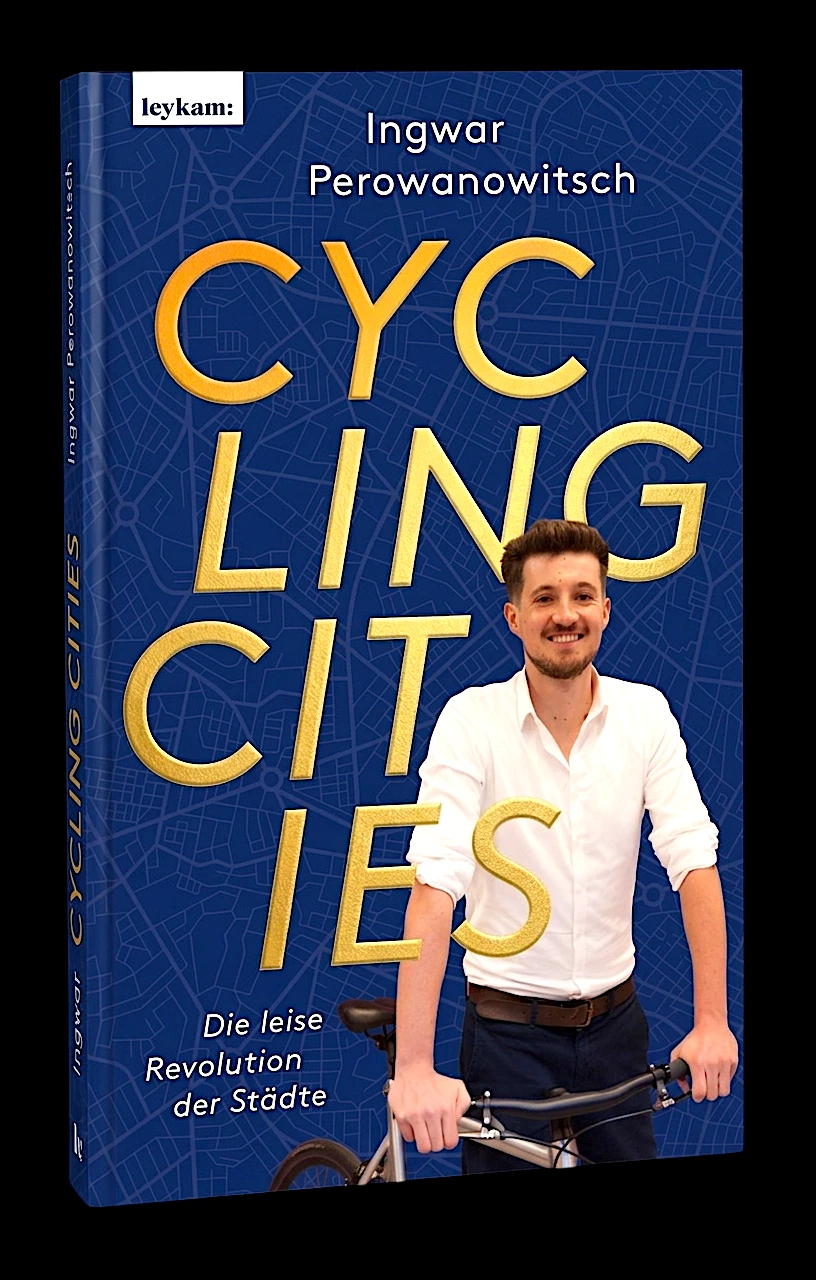
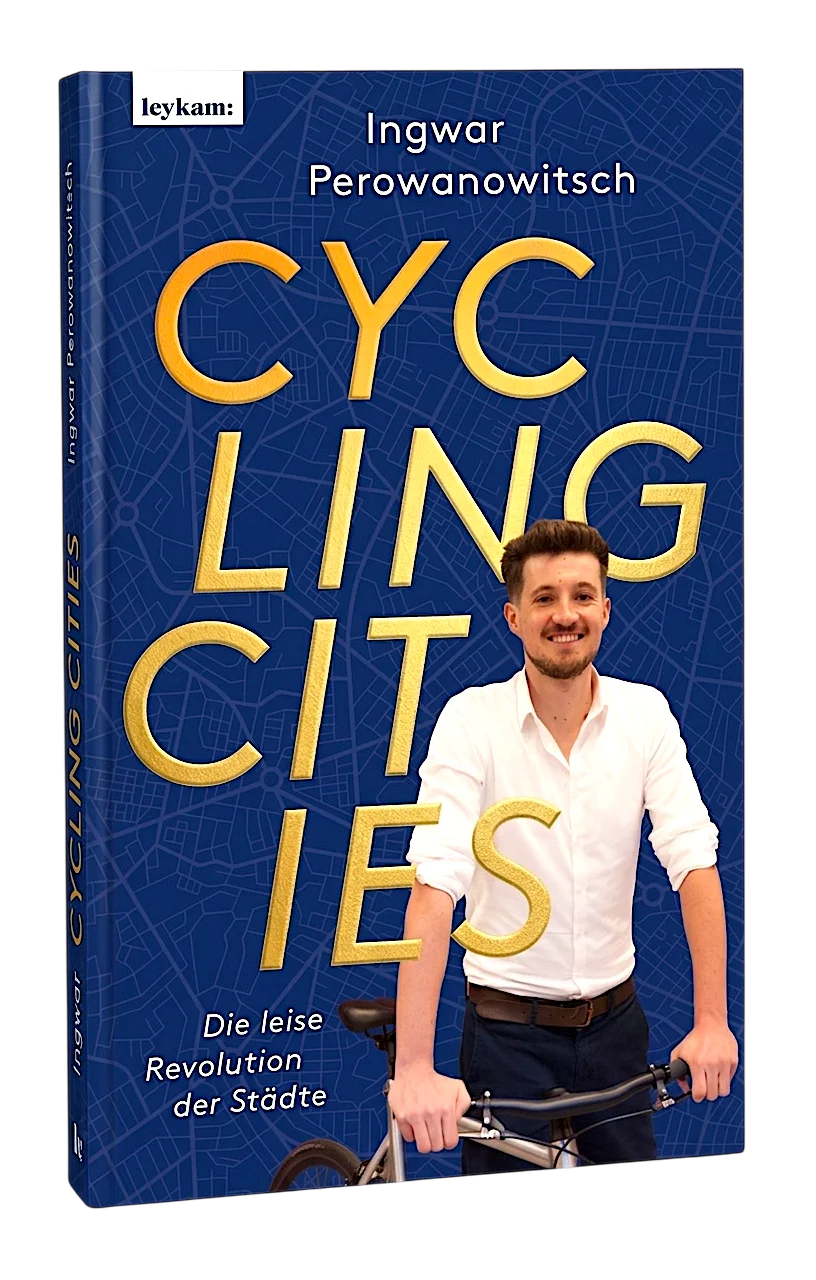
Buchcover.png → Buchcover.webp (1,6 MB → 152 KB)

Changed region(s): [[0.0, 0.0, 1.0, 1.0]]

diff --git a/index.html b/index.html
@@ -1015,7 +1015,7 @@
     <div class="hero-content">
       <div id="hero-name-wrap" style="margin-left: calc(4rem + 2.5cm); display: inline-flex; flex-direction: column; align-items: center;">
         <h1 id="hero-name" style="color:#fff; white-space: nowrap;" data-i18n="hero-book-launch">Mein erstes Buch ist da!</h1>
-        <img src="assets/images/Buchcover.png" alt="Cycling Cities – die leise Revolution der Städte"
+        <img src="assets/images/Buchcover.webp" alt="Cycling Cities – die leise Revolution der Städte"
           style="width:clamp(120px,22vw,220px); margin: 1.2rem 0; filter: drop-shadow(0 8px 24px rgba(0,0,0,0.6)); pointer-events:none;" />
         <a id="hero-preorder-btn" href="https://www.leykamverlag.at/produkt/cycling-cities/" target="_blank" rel="noopener noreferrer"
           style="border: 1px solid var(--accent); color: var(--accent); text-decoration: none; padding: 0.7rem 0; font-size: 0.75rem; letter-spacing: 0.18em; text-transform: uppercase; transition: background 0.25s, color 0.25s; margin-top: 0.8rem; width: 200px; text-align: center; display: block;"
